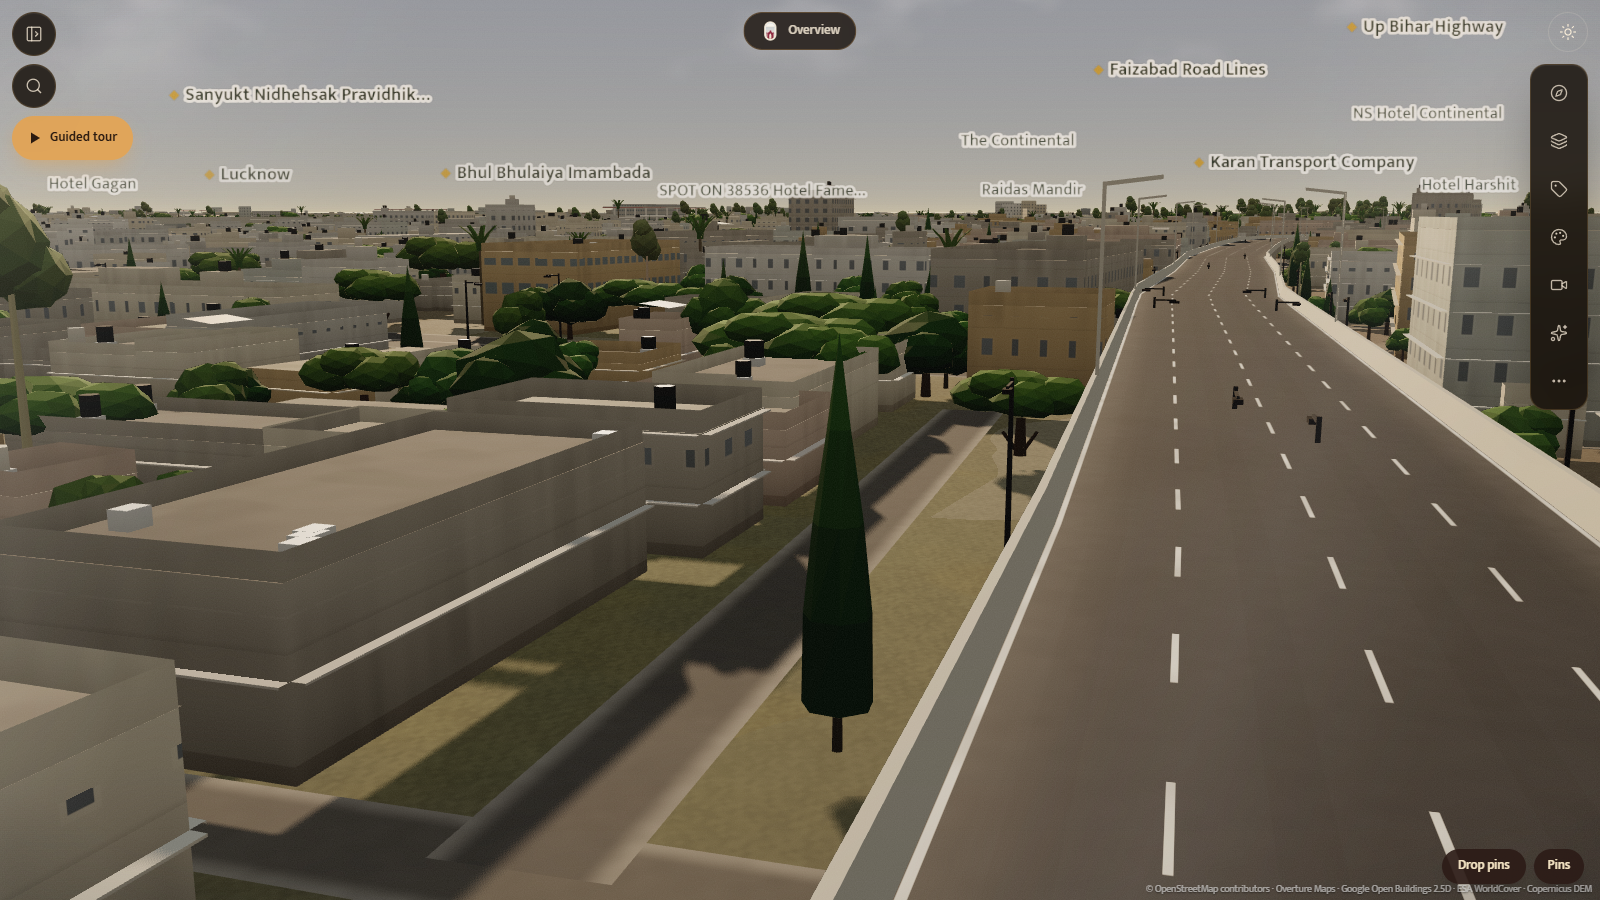
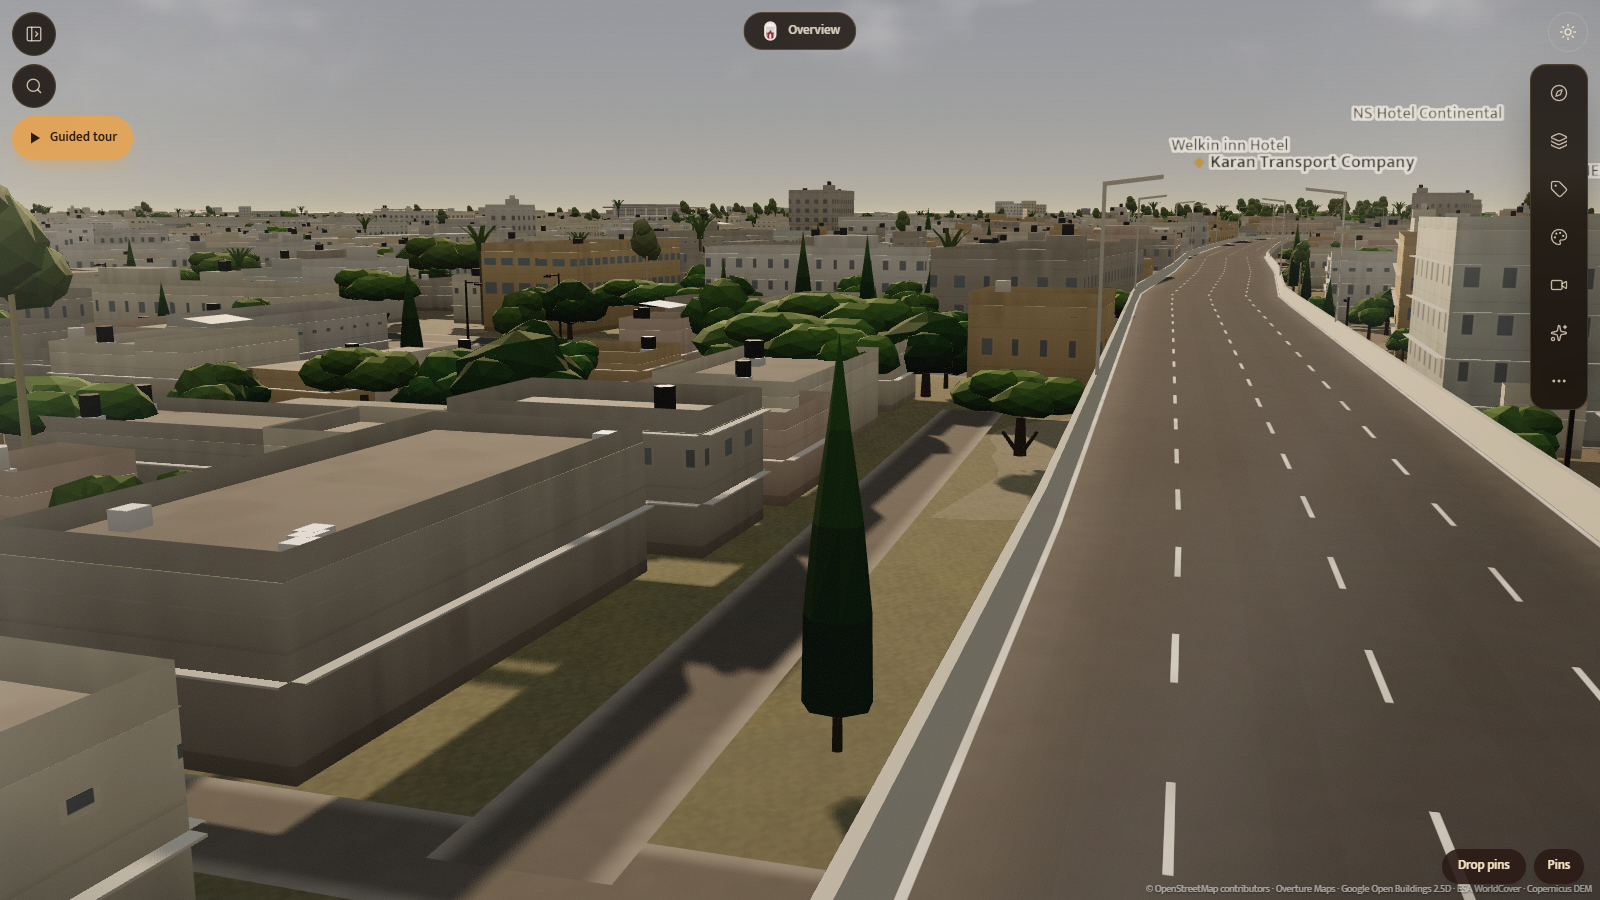
feat(3d): river bridges with deep girder, cutwater piers, parapet posts and lamps; no ground lamps under decks; softer flyover night glow

diff --git a/src/city/overlayGeometry.ts b/src/city/overlayGeometry.ts
@@ -326,19 +326,30 @@ function appendBridge(c: Crossing, deck: number[], pier: number[], rail: number[
     }
   }
 
-  const pierCount = span > 90 ? 4 : 2;
+  // River bridge (round 3): a deep girder, a pier every ~30 m standing in the water on a
+  // pointed cutwater footing, pier caps across the deck, parapets with posts and deck lamps.
+  box(pier, -span, span, DECK_Y - 2.2, DECK_Y - 0.55, -half + 0.4, half - 0.4);
+  const pierCount = Math.max(2, Math.round((span * 2) / 30));
   for (let i = 0; i < pierCount; i++) {
-    const tt = (i + 0.5) / pierCount;
-    const pu = -span + tt * span * 2;
-    for (const sv of [-1, 1]) {
-      const pv = sv * half * 0.62;
-      box(pier, pu - 1.6, pu + 1.6, -0.6, DECK_Y - 0.5, pv - 2.2, pv + 2.2);
+    const pu = -span + ((i + 0.5) / pierCount) * span * 2;
+    box(pier, pu - 1.3, pu + 1.3, -1.5, DECK_Y - 2.2, -half * 0.75, half * 0.75);   // wall pier
+    box(pier, pu - 1.8, pu + 1.8, -1.5, 1.2, -half * 0.8 - 1, half * 0.8 + 1);     // footing
+    for (const sv of [-1, 1]) {                                                   // pointed cutwaters
+      const v0 = sv * (half * 0.8 + 1), v1 = sv * (half * 0.8 + 3.2);
+      const q = (a: number[], b: number[], c2: number[]) => { W(a[0], a[1], a[2], pier); W(b[0], b[1], b[2], pier); W(c2[0], c2[1], c2[2], pier); };
+      for (const y of [-1.5, 1.2]) q([pu - 1.8, y, v0], [pu + 1.8, y, v0], [pu, y, v1]);
+      q([pu - 1.8, -1.5, v0], [pu, -1.5, v1], [pu, 1.2, v1]); q([pu - 1.8, -1.5, v0], [pu, 1.2, v1], [pu - 1.8, 1.2, v0]);
+      q([pu + 1.8, -1.5, v0], [pu, 1.2, v1], [pu, -1.5, v1]); q([pu + 1.8, -1.5, v0], [pu + 1.8, 1.2, v0], [pu, 1.2, v1]);
     }
+    box(pier, pu - 1.6, pu + 1.6, DECK_Y - 2.9, DECK_Y - 2.2, -half - 0.3, half + 0.3);  // cap
   }
 
   for (const sv of [-1, 1]) {
     const pv = sv * half;
-    box(rail, -span, span, DECK_Y + 0.55, DECK_Y + 1.85, pv - 0.25, pv + 0.25);
+    box(rail, -span, span, DECK_Y + 0.55, DECK_Y + 0.85, pv - 0.3, pv + 0.3);
+    box(rail, -span, span, DECK_Y + 1.6, DECK_Y + 1.8, pv - 0.18, pv + 0.18);
+    for (let u = -span; u <= span; u += 3) box(rail, u - 0.12, u + 0.12, DECK_Y + 0.85, DECK_Y + 1.6, pv - 0.12, pv + 0.12);
+    for (let u = -span + 10; u < span; u += 30) box(rail, u - 0.12, u + 0.12, DECK_Y + 0.55, DECK_Y + 9, pv - 0.12, pv + 0.12);
   }
 }
 

diff --git a/src/city/tileWorker.ts b/src/city/tileWorker.ts
@@ -139,6 +139,19 @@ const LIT_ROAD_SPACING: Partial<Record<string, number>> = {
 
 function buildStreetlights(roads: RoadIn[], originX: number, originZ: number): Float32Array {
   const out: number[] = [];
+  // Deck corridors: a ground lamp under or beside a raised deck would pierce it.
+  const decks: Array<[number, number, number, number, number]> = [];
+  for (const r of roads) {
+    if (!r?.points || !(r.isElevated || (r.level ?? 0) > 0)) continue;
+    const h = roadHalfWidth(classifyRoad(r.type, r.subtype, r.level, r.isElevated), r.type, r.id) + 4;
+    for (let i = 0; i < r.points.length - 1; i++) decks.push([r.points[i].x, r.points[i].z, r.points[i + 1].x, r.points[i + 1].z, h]);
+  }
+  const underDeck = (x: number, z: number): boolean => decks.some(([ax, az, bx, bz, h]) => {
+    const dx = bx - ax, dz = bz - az, L = dx * dx + dz * dz || 1;
+    const t = Math.max(0, Math.min(1, ((x - ax) * dx + (z - az) * dz) / L));
+    return Math.hypot(ax + t * dx - x, az + t * dz - z) < h;
+  });
+  const push = (x: number, z: number, a: number) => { if (!underDeck(x + originX, z + originZ)) out.push(x, z, a); };
 
   for (const road of roads) {
     if (!road?.points || road.points.length < 2) continue;
@@ -171,11 +184,11 @@ function buildStreetlights(roads: RoadIn[], originX: number, originZ: number): F
         const cx = p1.x + ux * d - originX;
         const cz = p1.z + uz * d - originZ;
         if (bothSides) {
-          out.push(cx + nx * half, cz + nz * half, angle);
-          out.push(cx - nx * half, cz - nz * half, angle + Math.PI);
+          push(cx + nx * half, cz + nz * half, angle);
+          push(cx - nx * half, cz - nz * half, angle + Math.PI);
         } else {
           const s = flip ? 1 : -1;
-          out.push(cx + nx * half * s, cz + nz * half * s, flip ? angle : angle + Math.PI);
+          push(cx + nx * half * s, cz + nz * half * s, flip ? angle : angle + Math.PI);
           flip = !flip;
         }
       }

diff --git a/src/city/roadMaterial.ts b/src/city/roadMaterial.ts
@@ -38,7 +38,7 @@ export const ROAD_NIGHT: Record<RoadClass, number> = {
 const POOL: Record<RoadClass, [number, number]> = {
   motorway: [1.0, 39], trunk: [0.95, 38], primary: [0.85, 36], secondary: [0.7, 34],
   tertiary: [0.5, 47], residential: [0.28, 60], service: [0.15, 70], footway: [0.0, 1],
-  railway: [0.0, 1], flyover: [1.0, 39],
+  railway: [0.0, 1], flyover: [0.42, 36],
 };
 
 /**
